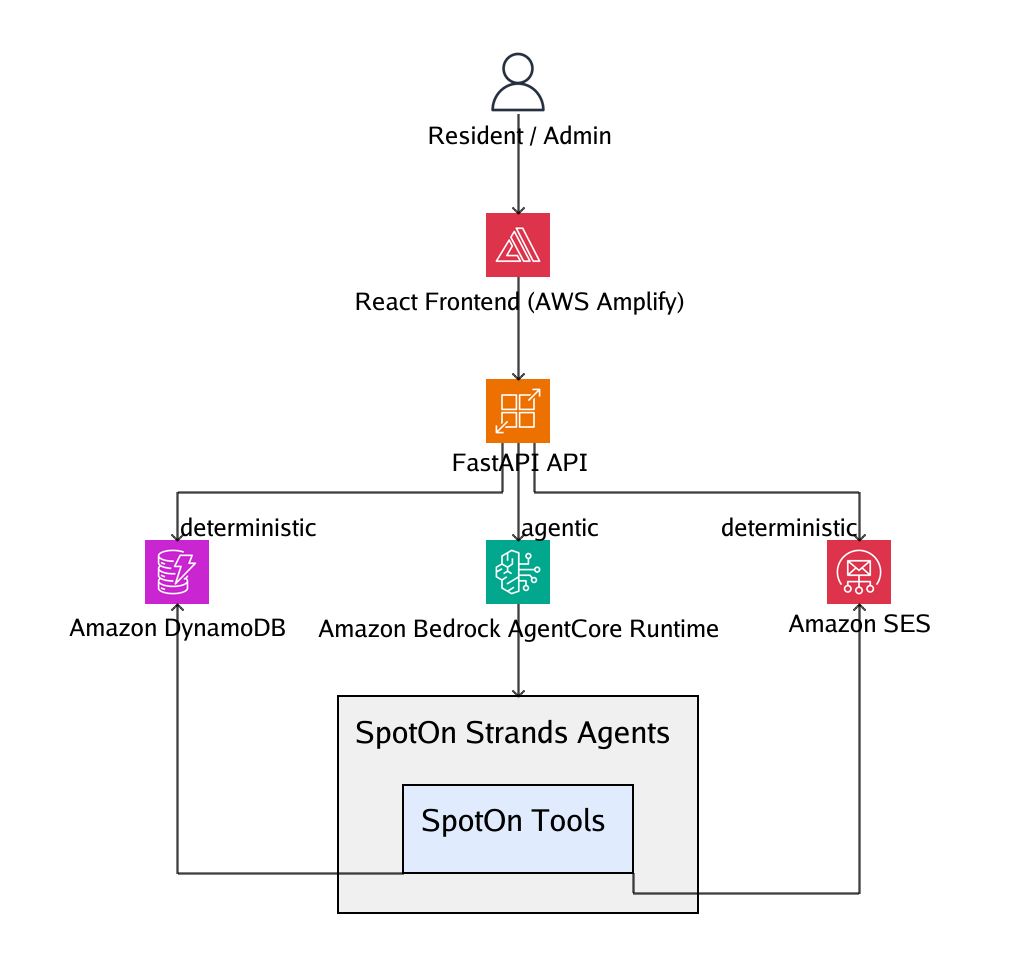
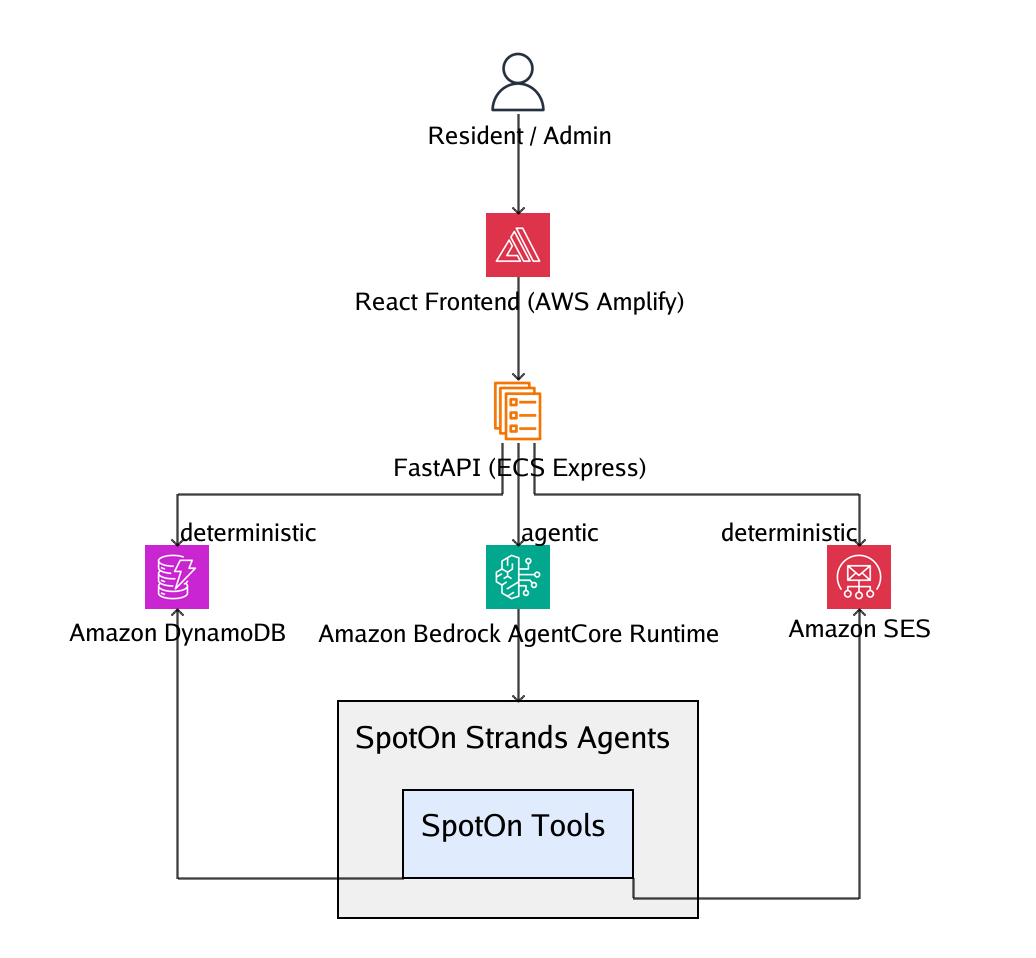
Deploy SpotOn FastAPI to Amazon ECS Express Mode
App Runner was the original target but stopped accepting new customers on
2026-04-30, so the backend runs on ECS Express Mode instead -- AWS's recommended
replacement, which provisions the Fargate service, ALB, TLS, autoscaling and
networking from one API call.

Public endpoint:
https://sp-5771e51624804f68b17f6cab206ede6f.ecs.us-east-1.on.aws

- Dockerfile: python:3.13-slim, deps installed from uv.lock, uvicorn on
  0.0.0.0:8000. Dependency manifests copied before source for layer caching.
- .dockerignore excludes .venv and .env -- the latter being the channel that
  caused the AgentCore ProfileNotFound failure.
- main.py: CORS origins now read from CORS_ALLOWED_ORIGINS so the Amplify domain
  can be added as configuration rather than code; adds GET /health for the ALB.
- React: API base URL extracted to src/apiBase.js, driven by REACT_APP_API_BASE
  with a localhost fallback. 11 hardcoded fetch URLs updated.
- spoton-task-role-policy.json: the running container's permissions --
  bedrock-agentcore:InvokeAgentRuntime on the SpotOn runtime, five DynamoDB
  actions on six tables, ses:SendEmail on the sender identity. No static
  credentials anywhere; Fargate supplies task-role credentials via boto3's
  default chain.
- docs/: architecture diagram updated to ECS Express, plus a deployment log of
  every failure hit (blackholed default route, circuit-breaker rollback leaving
  ALB weights on an empty target group).
[…]

diff --git a/src/resident/useResidentDemo.js b/src/resident/useResidentDemo.js
@@ -1,5 +1,6 @@
 import { useState, useCallback, useRef, useEffect } from 'react';
 import { INITIAL_SPACES, INITIAL_MESSAGES, STATUS, SCENARIO } from './residentData';
+import { API_BASE } from '../apiBase';
 
 // One id per browser tab/session — not real auth, just how the backend knows which
 // resident-context + conversation belongs to this tab. Persists across reloads of the
@@ -48,7 +49,7 @@ export function useResidentDemo() {
 
   // ── fetch spaces from backend ─────────────────────────────────────────────
   const fetchSpaces = useCallback(() => {
-    fetch('http://localhost:8000/api/parking-spaces')
+    fetch(`${API_BASE}/api/parking-spaces`)
       .then(res => res.json())
       .then(data => setSpaces(data.spaces))
       .catch(err => console.error('Failed to fetch parking spaces:', err));
@@ -57,7 +58,7 @@ export function useResidentDemo() {
   // ── fetch active waitlist offers — no push/polling infra, so this runs at the same
   // natural sync points as fetchSpaces (mount, after chat, after release/accept/decline) ──
   const fetchOffers = useCallback(() => {
-    fetch(`http://localhost:8000/api/waitlist/offers?session_id=${encodeURIComponent(sessionId)}`)
+    fetch(`${API_BASE}/api/waitlist/offers?session_id=${encodeURIComponent(sessionId)}`)
       .then(res => res.json())
       .then(data => setOffers(data.offers || []))
       .catch(err => console.error('Failed to fetch waitlist offers:', err));
@@ -103,7 +104,7 @@ export function useResidentDemo() {
     const permitId = space?.current_permit_id || activePermits[spaceId]?.permitId;
     if (!permitId || isReleasing) return;
     setIsReleasing(true);
-    fetch(`http://localhost:8000/api/permits/${permitId}/release?timezone=${encodeURIComponent(timezone)}`, { method: 'POST' })
+    fetch(`${API_BASE}/api/permits/${permitId}/release?timezone=${encodeURIComponent(timezone)}`, { method: 'POST' })
       .then(res => res.json().then(data => ({ ok: res.ok, data })))
       .then(({ ok, data }) => {
         setIsReleasing(false);
@@ -132,7 +133,7 @@ export function useResidentDemo() {
   const acceptOffer = useCallback((waitlistId) => {
     if (offerActionId) return;
     setOfferActionId(waitlistId);
-    fetch(`http://localhost:8000/api/waitlist/${waitlistId}/accept?timezone=${encodeURIComponent(timezone)}`, { method: 'POST' })
+    fetch(`${API_BASE}/api/waitlist/${waitlistId}/accept?timezone=${encodeURIComponent(timezone)}`, { method: 'POST' })
       .then(res => res.json().then(data => ({ ok: res.ok, data })))
       .then(({ ok, data }) => {
         setOfferActionId(null);
@@ -164,8 +165,7 @@ export function useResidentDemo() {
 
   const declineOffer = useCallback((waitlistId) => {
     if (offerActionId) return;
-    setOfferActionId(waitlistId);
-    fetch(`http://localhost:8000/api/waitlist/${waitlistId}/decline`, { method: 'POST' })
+    fetch(`${API_BASE}/api/waitlist/${waitlistId}/decline`, { method: 'POST' })
       .then(res => res.json().then(data => ({ ok: res.ok, data })))
       .then(({ ok, data }) => {
         setOfferActionId(null);
@@ -236,7 +236,7 @@ export function useResidentDemo() {
 
     // ── fallback — hits real FastAPI backend ────────────────────────────────
     setIsTyping(true);
-    fetch('http://localhost:8000/api/chat', {
+    fetch(`${API_BASE}/api/chat`, {
       method: 'POST',
       headers: { 'Content-Type': 'application/json' },
       body: JSON.stringify({ message: text, session_id: sessionId, timezone }),

diff --git a/src/admin/useAdminDemo.js b/src/admin/useAdminDemo.js
@@ -1,3 +1,5 @@
+import { API_BASE } from '../apiBase';
+
 import { useState, useCallback, useRef, useEffect } from 'react';
 import {
   INITIAL_WAITLIST,
@@ -31,14 +33,14 @@ export function useAdminDemo() {
   const notifId = useRef(0);
 
   const fetchSpaces = useCallback(() => {
-    fetch('http://localhost:8000/api/parking-spaces')
+    fetch(`${API_BASE}/api/parking-spaces`)
       .then(res => res.json())
       .then(data => setSpaces(data.spaces || []))
       .catch(err => console.error('Failed to fetch parking spaces:', err));
   }, []);
 
   const fetchVehicleReports = useCallback(() => {
-    fetch('http://localhost:8000/api/admin/vehicle-reports')
+    fetch(`${API_BASE}/api/admin/vehicle-reports`)
       .then(res => res.json())
       .then(data => setVehicleReports(data.reports || []))
       .catch(err => console.error('Failed to fetch vehicle reports:', err));
@@ -108,7 +110,7 @@ export function useAdminDemo() {
     // messages — the agent itself (see agent/admin_agent.py) is what should decide
     // whether to ask a clarifying question or proceed, not a scripted string match.
     setIsTyping(true);
-    fetch('http://localhost:8000/api/admin/chat', {
+    fetch(`${API_BASE}/api/admin/chat`, {
       method: 'POST',
       headers: { 'Content-Type': 'application/json' },
       body: JSON.stringify({ message: text, session_id: adminSessionId }),
@@ -165,7 +167,7 @@ export function useAdminDemo() {
   const markExpected = useCallback((reportId) => {
     if (reportActionId) return;
     setReportActionId(reportId);
-    fetch(`http://localhost:8000/api/admin/vehicle-reports/${reportId}/expected`, { method: 'POST' })
+    fetch(`${API_BASE}/api/admin/vehicle-reports/${reportId}/expected`, { method: 'POST' })
       .then(res => res.json().then(data => ({ ok: res.ok, data })))
       .then(({ ok, data }) => {
         setReportActionId(null);
@@ -187,7 +189,7 @@ export function useAdminDemo() {
   const reportToSecurity = useCallback((reportId) => {
     if (reportActionId) return;
     setReportActionId(reportId);
-    fetch(`http://localhost:8000/api/admin/vehicle-reports/${reportId}/notify-security`, { method: 'POST' })
+    fetch(`${API_BASE}/api/admin/vehicle-reports/${reportId}/notify-security`, { method: 'POST' })
       .then(res => res.json().then(data => ({ ok: res.ok, data })))
       .then(({ ok, data }) => {
         setReportActionId(null);

diff --git a/src/apiBase.js b/src/apiBase.js
@@ -1,0 +1,10 @@
+// Base URL for the SpotOn backend.
+//
+// Defaults to the local FastAPI dev server, so `npm start` with no configuration
+// behaves exactly as before. Set REACT_APP_API_BASE in .env to point at a deployed
+// backend — that is how this switches between local, ECS Express, and (later) a
+// production URL without touching component code.
+//
+// CRA only exposes variables prefixed REACT_APP_, and reads them at build/start
+// time — changing .env requires restarting the dev server.
+export const API_BASE = process.env.REACT_APP_API_BASE || 'http://localhost:8000';

diff --git a/spoton_backend_app/main.py b/spoton_backend_app/main.py
@@ -1,3 +1,5 @@
+import os
+
 from fastapi import FastAPI, HTTPException
 from fastapi.middleware.cors import CORSMiddleware
 from pydantic import BaseModel
@@ -23,12 +25,25 @@ _repo = get_repository()
 
 app = FastAPI(title="SpotOn API")
 
+# Browser origins allowed to call this API, as a comma-separated env var. The
+# default is the local React dev server, so local development is unchanged. In
+# ECS it is supplied as CORS_ALLOWED_ORIGINS — which is how the Amplify domain
+# gets added later by editing configuration instead of code.
+CORS_ALLOWED_ORIGINS = [
+    origin.strip()
+    for origin in os.environ.get(
+        "CORS_ALLOWED_ORIGINS", "http://localhost:3000,http://localhost:5173"
+    ).split(",")
+    if origin.strip()
+]
+
 app.add_middleware(
     CORSMiddleware,
-    allow_origins=["http://localhost:3000", "http://localhost:5173"],
+    allow_origins=CORS_ALLOWED_ORIGINS,
     allow_methods=["*"],
     allow_headers=["*"],
 )
+
 
 
 class ChatRequest(BaseModel):
@@ -45,6 +60,14 @@ class AdminChatRequest(BaseModel):
 @app.get("/")
 def root():
     return {"status": "SpotOn API running"}
+
+
+
+@app.get("/health")
+def health():
+    """Liveness probe for the ECS Express Mode health check.
+    """
+    return {"status": "ok"}
 
 
 @app.get("/api/parking-spaces")

diff --git a/docs/ecs-express-deployment-notes.md b/docs/ecs-express-deployment-notes.md
@@ -1,0 +1,133 @@
+# SpotOn FastAPI → Amazon ECS Express Mode: deployment notes
+
+Working log of every problem hit deploying the SpotOn FastAPI backend, September 2026.
+Format: symptom → root cause → fix → lesson.
+
+Live service: `https://sp-5771e51624804f68b17f6cab206ede6f.ecs.us-east-1.on.aws`
+
+---
+
+## 0. The pivot: App Runner is closed to new customers
+
+**Symptom:** every App Runner doc page opens with *"AWS App Runner is no longer open to new
+customers."* The console showed **Services (0)** and a **disabled** "Create service" button.
+**Cause:** new-customer signup closed **2026-04-30**; this account had never created a service.
+**Fix:** Amazon ECS Express Mode, AWS's named replacement — a container image plus IAM roles,
+and AWS provisions the Fargate service, ALB, TLS, autoscaling and networking.
+**Lesson:** check service *availability for your account* before designing around a service. The
+docs banner is easy to skim past; the disabled button is the real signal.
+
+**Bonus blocker, also version-related:** App Runner's managed Python runtimes top out at **3.11**
+(`python311`; `python3` is 3.7/3.8 and EOL Dec 2025). SpotOn declares `requires-python = ">=3.13"`.
+So even with access, source deployment would have forced a Python downgrade. Express Mode requires
+a container image, which keeps the app on 3.13 — the constraint turned out to be a convenience.
+
+## 1. Docker not available in WSL
+
+**Symptom:** `The command 'docker' could not be found in this WSL 2 distro.`
+**Cause:** Docker Desktop installed on Windows with WSL integration disabled.
+**Fix:** enable it in Docker Desktop → Settings → Resources → WSL Integration.
+**Lesson:** the AgentCore images were built by CodeBuild in AWS, so local Docker had never been
+needed — an absent dependency nobody had noticed.
+
+## 2. AWS CLI too old for `create-express-gateway-service`
+
+**Symptom:** `argument operation: Found invalid choice 'create-express-gateway-service'`.
+**Cause:** the installed CLI was **2.31.36, dated 13 Nov 2025**. ECS Express Mode launched
+**21 Nov 2025** — eight days later.
+**Fix:** update the CLI. **No sudo required:**
+`./aws/install --install-dir ~/.local/aws-cli --bin-dir ~/.local/bin --update`
+**Second lesson:** after updating, `aws --version` reported the new version while subcommands still
+came from the old binary — bash had cached the path. **`hash -r`** (or a fresh terminal) is required.
+The AWS CLI bundles its own botocore, independent of the project venv: boto3 1.43.82 in the venv had
+the operation while the CLI did not.
+
+## 3. IAM permission cascade
+
+Each of these was a separate `AccessDenied`, fixed by extending one customer-managed policy
+(`SpotOnEcsDeploy`) rather than creating several:
+`ecr:CreateRepository` (the AgentCore-era ECR grants were scoped to `bedrock-agentcore-*` and
+`cdk-*`, neither matching `spoton-backend`) · `ec2:CreateDefaultSubnet` · `ecs:*` ·
+`ec2:DescribeRouteTables` / `DescribeInternetGateways` · `ec2:ReplaceRoute`.
+
+**Scoping principle used throughout:** widen the *action* where enumeration cascades, keep the
+*resource* narrow. `ecr:*` on `repository/spoton-*` is safe; `ecs:*` on `*` was accepted only
+because it is the **deploy user** (not the runtime) and the account has no other ECS workloads.
+The grant that actually matters — the **task role** — stayed tightly scoped to three services.
+
+## 4. `Unable to assume the service linked role`
+
+**Symptom:** first `create-express-gateway-service` failed immediately.
+**Cause:** `AWSServiceRoleForECS` is created automatically on first ECS use — and this account had
+never used ECS. The failing call *created* it, then couldn't assume it before IAM propagated.
+**Fix:** wait ~60s and retry the **identical** command. AWS documents this explicitly.
+**Lesson:** a first-use failure that creates the thing it needs will often succeed on retry. Changing
+configuration here would have confused cause and effect.
+
+## 5. ⚠ The big one: a blackholed default route
+
+**Symptom:** `ResourceInitializationError: unable to pull registry auth ... dial tcp
+44.213.61.252:443: i/o timeout` — the Fargate task could not reach ECR.
+**Cause, in two parts.** The default VPC had **zero subnets** in the entire region (deleted by
+someone earlier) — fixed with `aws ec2 create-default-subnet` in two AZs, which an ALB requires. But
+the real problem was worse: the main route table's `0.0.0.0/0` route pointed at
+`igw-0c1df7f31d7e9e3c2`, **an internet gateway that no longer exists**. AWS labelled the route state
+**`blackhole`**. A different, working gateway (`igw-0aa37e7e6f4d1043d`) was attached to the VPC, but
+nothing routed to it.
+**Fix:** `aws ec2 replace-route --route-table-id rtb-… --destination-cidr-block 0.0.0.0/0
+--gateway-id igw-0aa37e…` (`replace-route`, not `create-route` — the entry already existed).
+**Lessons:**
+- **`i/o timeout` means no route; `AccessDenied` means no permission.** They look similar in a
+  deployment log and have completely different fixes.
+- `MapPublicIpOnLaunch=true` on a subnet governs **EC2 instances**, not Fargate tasks.
+- This was **pre-existing damage**, like the deleted CDK staging bucket in the AgentCore work. An
+  account with a half-dismantled default VPC produces failures that look like your own mistakes.
+
+## 6. ⚠ The subtle one: 503 with a perfectly healthy application
+
+**Symptom:** `HTTP/2 503` from `awselb/2.0`, while **everything looked healthy**: task `RUNNING`,
+`runningCount: 1`, service "reached a steady state", and the container logging
+`GET /health → 200 OK` every 30 seconds from the ALB's own two ENIs.
+
+**Diagnosis took four layers:**
+1. Target group — `172.31.7.62:8000` state **healthy**. Not the app.
+2. Listener — default action `fixed-response` (the 503 HTML), not `forward`. Traffic reaches the
+   target group only via a rule.
+3. Listener **rule** — matched the exact hostname correctly. `TargetGroupArn` was `null` because it
+   is a *weighted* forward, so the first query looked empty.
+4. `ForwardConfig.TargetGroups` — **the empty target group had Weight 100; the one holding the
+   healthy task had Weight 0.** All traffic was being sent nowhere.
+
+**Root cause:** `describe-service-deployments` showed `status: ROLLBACK_FAILED`, reason *"No rollback
+candidate was found to run the rollback"*, triggered by *"circuit breaker threshold was exceeded."*
+The original deployment failed because of the blackhole route (#5); the **deployment circuit breaker**
+tripped and tried to roll back; there was no previous revision to roll back to, so it died leaving
+traffic weights pointed at the empty target group. Fixing the network later let a task become healthy,
+but **nothing re-advanced the weights** — the 503 was a fossil of an already-fixed bug.
+
+**Fix:** trigger a new deployment via `update-express-gateway-service`. There is no
+force-deployment flag, so a real configuration change is needed — `--cpu 512 --memory 1024` served
+double duty: it guaranteed a new service revision *and* halved Express Mode's 1024/2048 default.
+**Do not hand-edit the ALB weights** — Express Mode owns those resources and would reconcile the
+change away.
+
+**Lessons:**
+- **"Steady state" is not "serving traffic."** ECS reported healthy at every layer it owns while
+  the ALB served nothing. The real success criterion was the listener rule's target-group weights.
+- When the app is provably healthy and the edge returns 503, **walk the path outward**: target
+  health → listener default action → listener rules → forward weights.
+- A **failed first deployment** is a distinct trap: the circuit breaker's rollback has nothing to
+  roll back to, and the service is left in a state that later fixes do not clear on their own.
+
+## 7. Small things worth remembering
+
+- `describe-express-gateway-service` puts the URL at
+  `service.activeConfigurations[0].ingressPaths[0].endpoint` — the top-level `service.ingressPaths`
+  is `null`, and the value is a **bare hostname** with no scheme.
+- botocore's docstring claims Express Mode's default CPU is 256 units; the service actually
+  provisioned **1024/2048**. The tutorial page was right and the API docstring is stale.
+- Express Mode creates **two** target groups (for canary/blue-green) — one is legitimately empty.
+- The container takes **more than 3 seconds** to become ready (boto3 + Strands + OpenTelemetry
+  imports), so a local `sleep 3` before curling is not enough.
+- `docker buildx` pushes an image index plus a small provenance attestation, so ECR shows extra
+  untagged rows alongside each tag. Normal.

diff --git a/docs/agentcore-troubleshooting.md b/docs/agentcore-troubleshooting.md
@@ -192,7 +192,7 @@ service prefix, and its `PassRoleToBedrock` statement is conditioned on
 `bedrock-agentcore.amazonaws.com`. Attach `BedrockAgentCoreFullAccess` too.
 
 **Inline policies cap at 2048 non-whitespace characters across all inline policies on an
-identity.** Use customer-managed policies (6144 each, and reusable for the future App Runner role).
+identity.** Use customer-managed policies (6144 each, and reusable for the future ECS Express Mode task role).
 
 ## 14. `CDKToolkit` stack stuck
 
